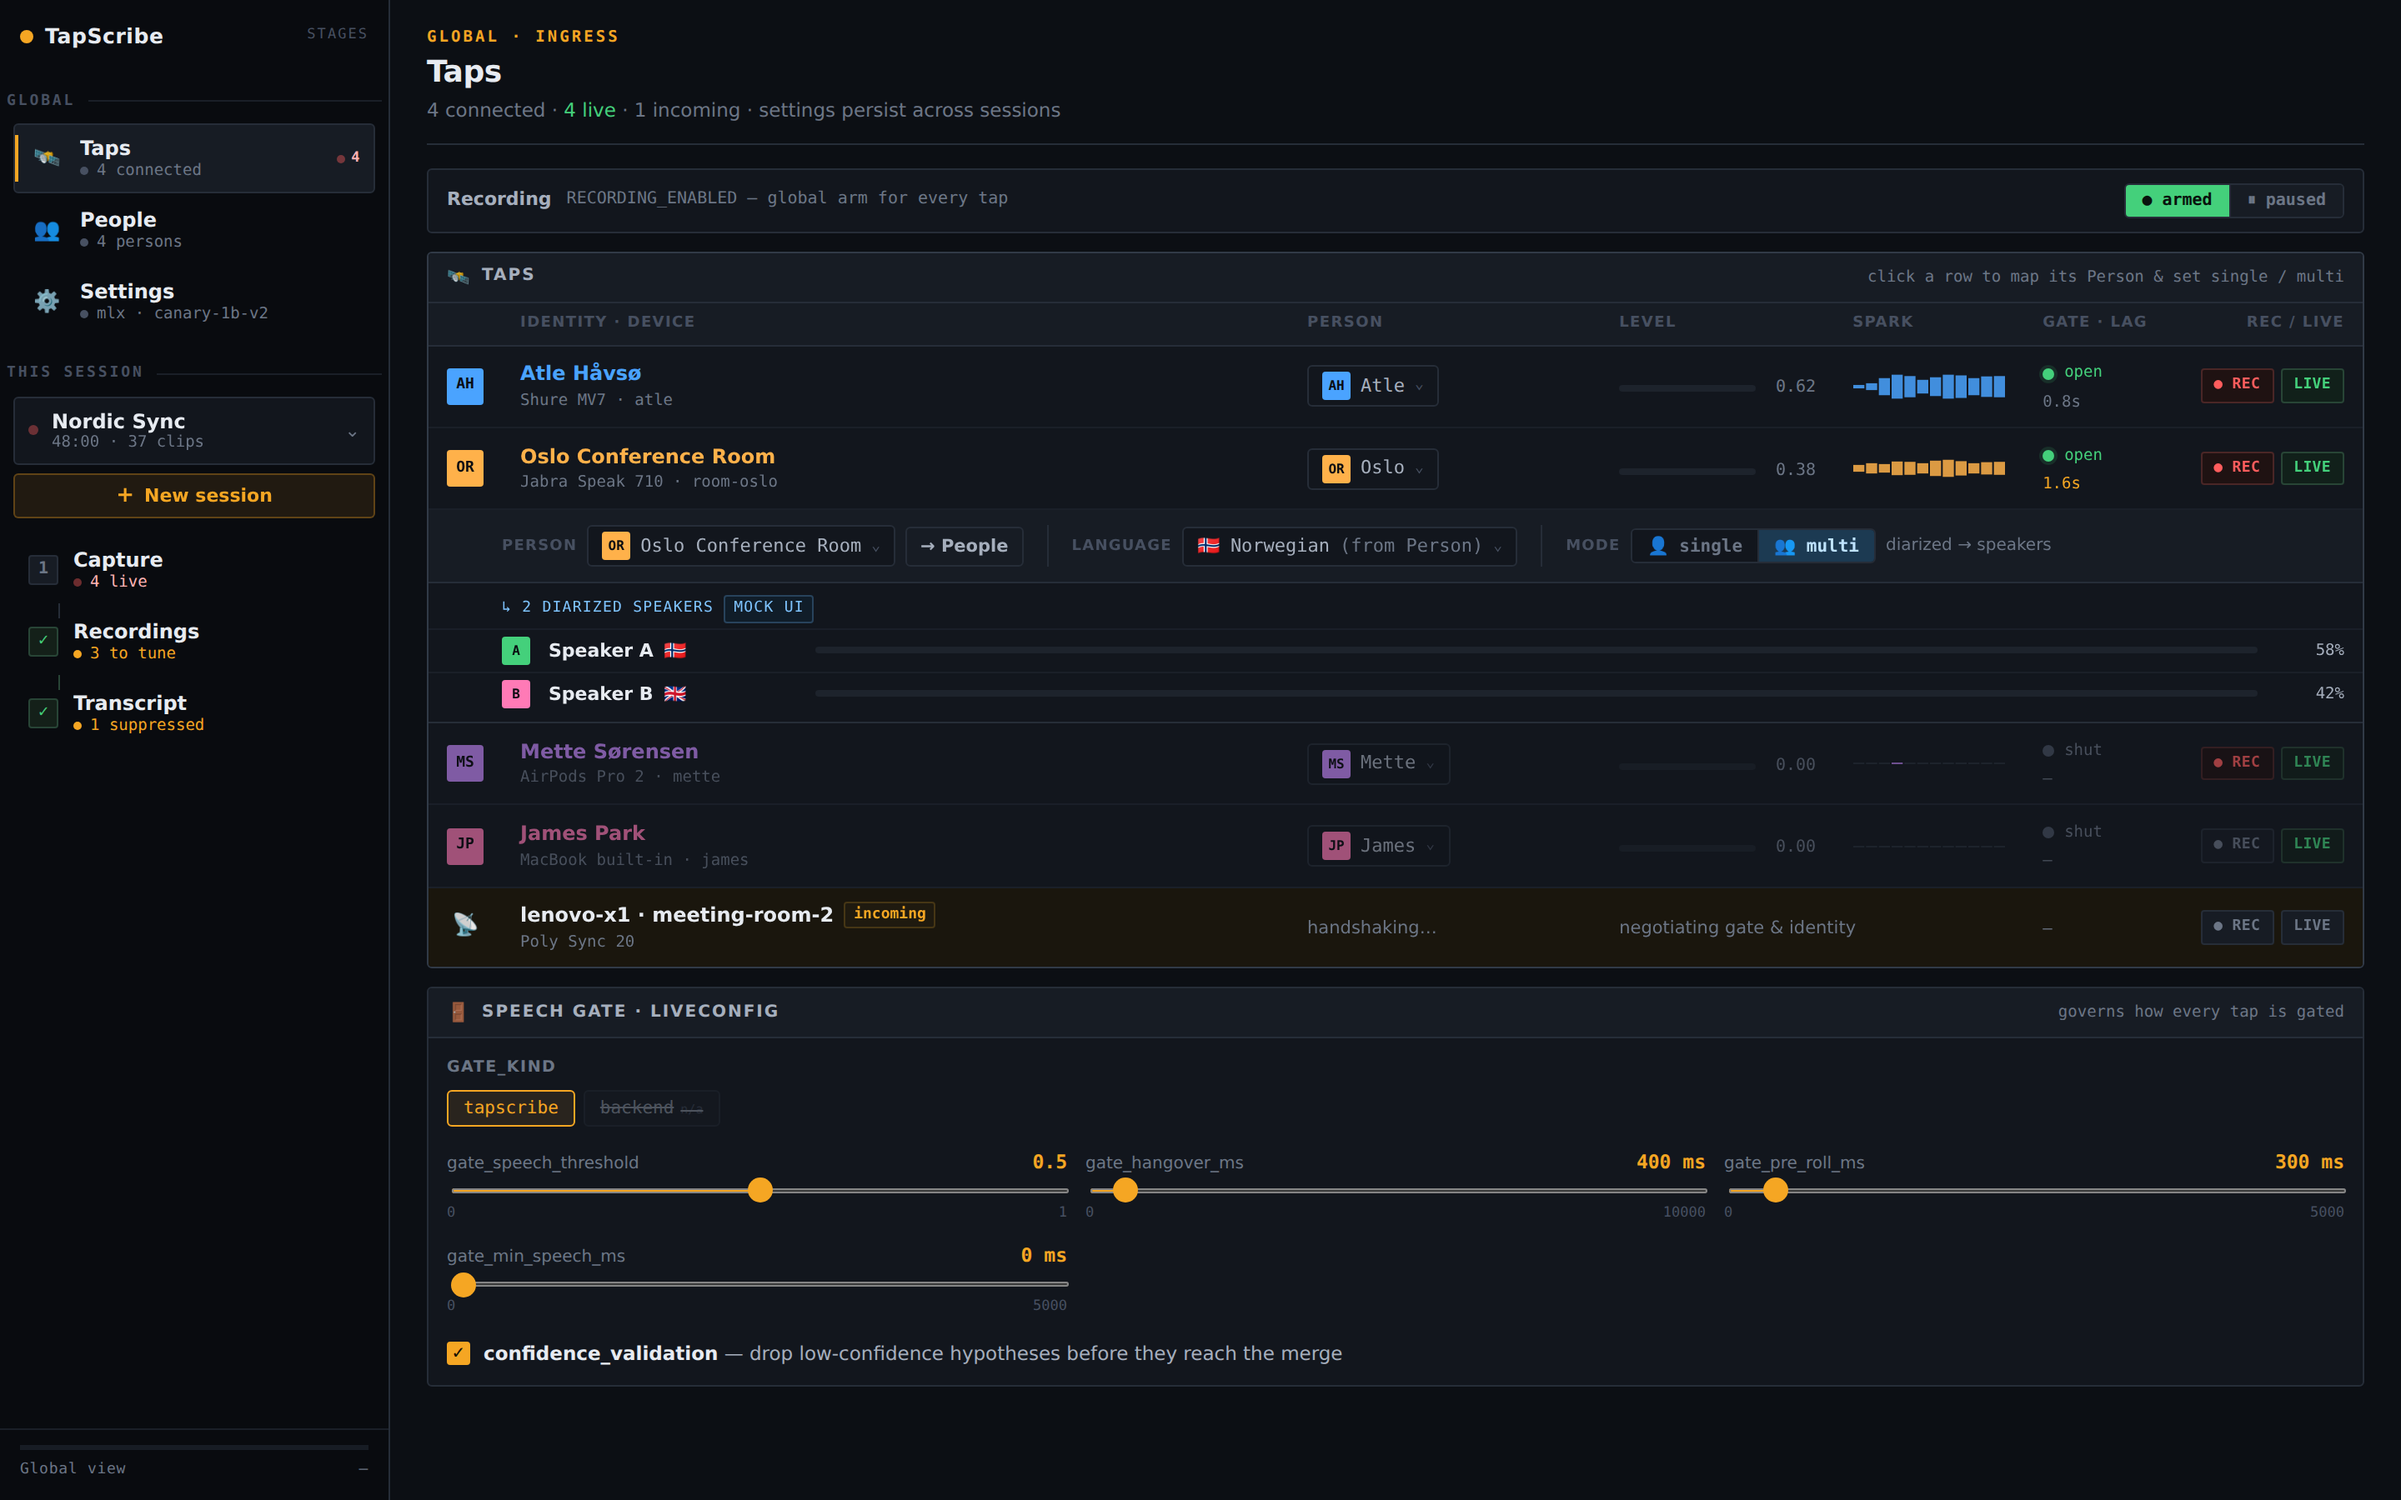
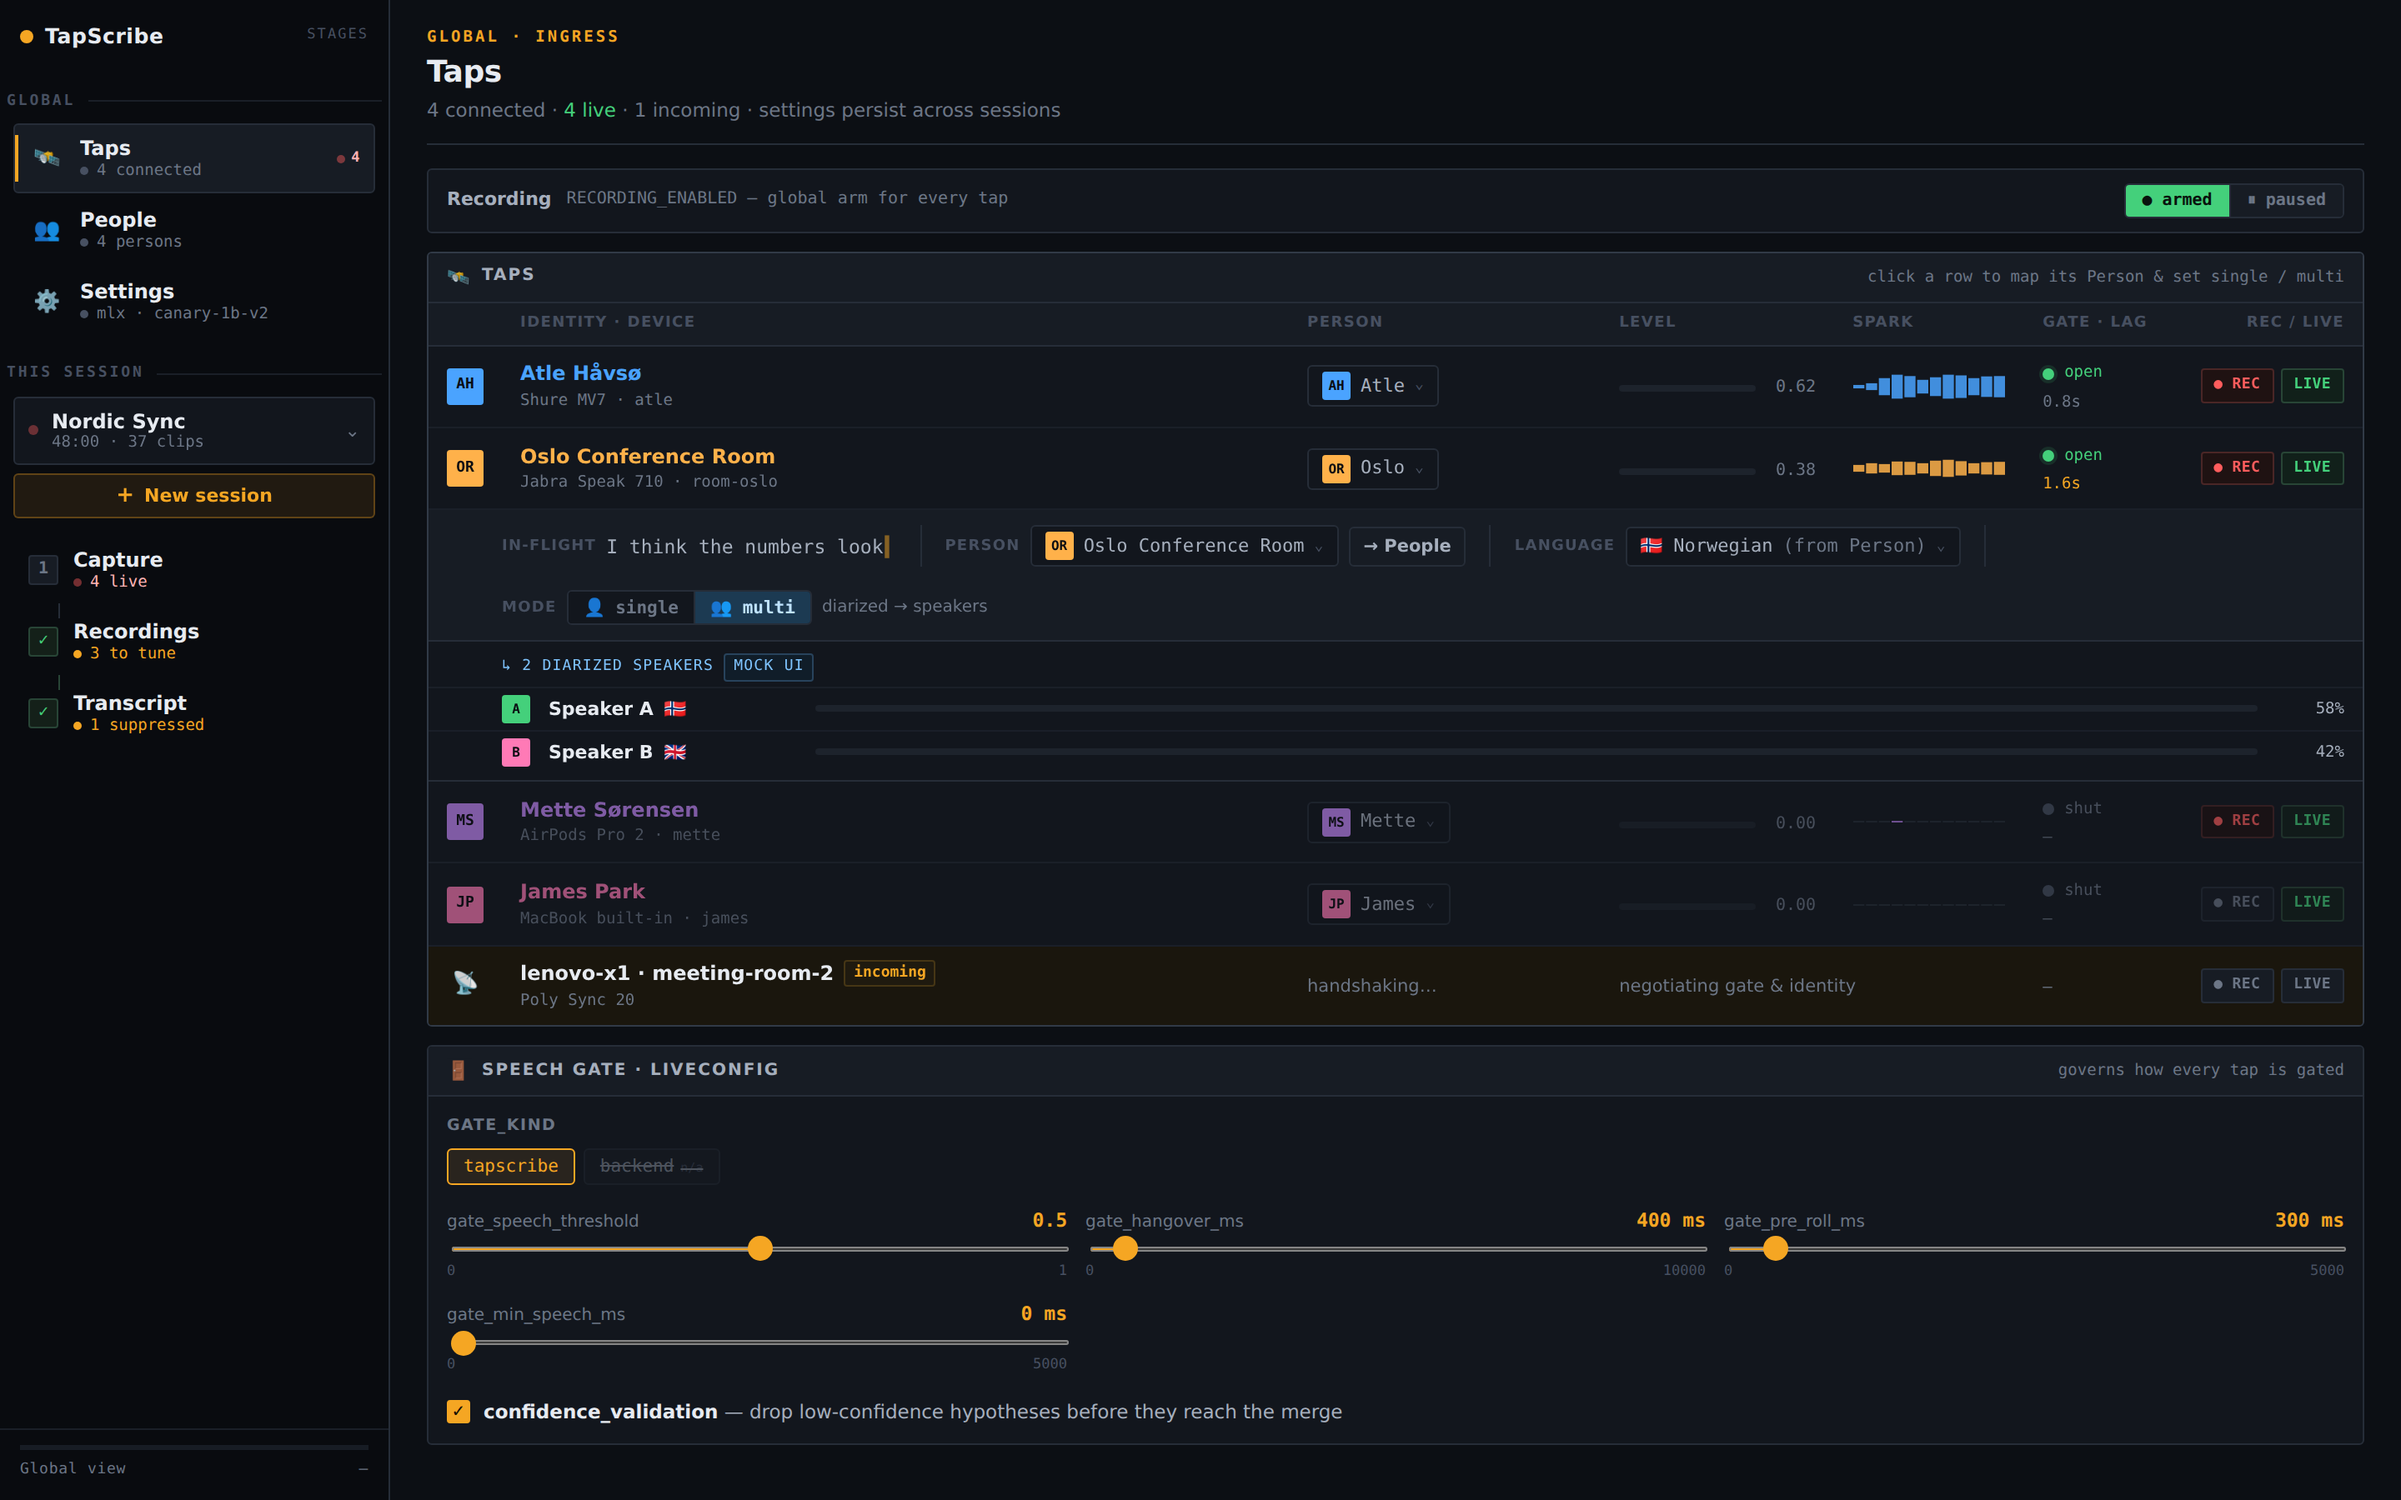
Render in-flight buffer in expanded tap (fix unused 'buffer')
The in-flight hypothesis HTML was built but never inserted into the tap config strip (CodeQL js/unused-local-variable, alert 102). Now shown as an 'In-flight' block; content is esc()-built. (isJourney/alert 101 already removed in f5e7ebf.)

https://claude.ai/code/session_014cLcdR4UMhcqbRuLb6MSAQ

diff --git a/prototypes/stages/stages.js b/prototypes/stages/stages.js
@@ -494,6 +494,8 @@ function tapRows(tbody, t) {
     : `<span class="muted" style="font-size:10.5px">— gate shut, no in-flight audio —</span>`;
   const cfg = el(`
     <tr class="tapcfg"><td colspan="7"><div class="tapcfg__in">
+      <span class="cfgblk"><span class="cfgblk__k">In-flight</span>${buffer}</span>
+      <span class="cfgsep"></span>
       <span class="cfgblk"><span class="cfgblk__k">Person</span>
         <span class="pick"><span class="av sm spk-${person?.spk ?? t.spk}">${esc(person?.initials || "?")}</span>${esc(person?.name || t.identity)}<span class="pick__chev">⌄</span></span>
         <a class="act act--sm act--ghost" data-go="people" style="text-decoration:none">→ People</a>
